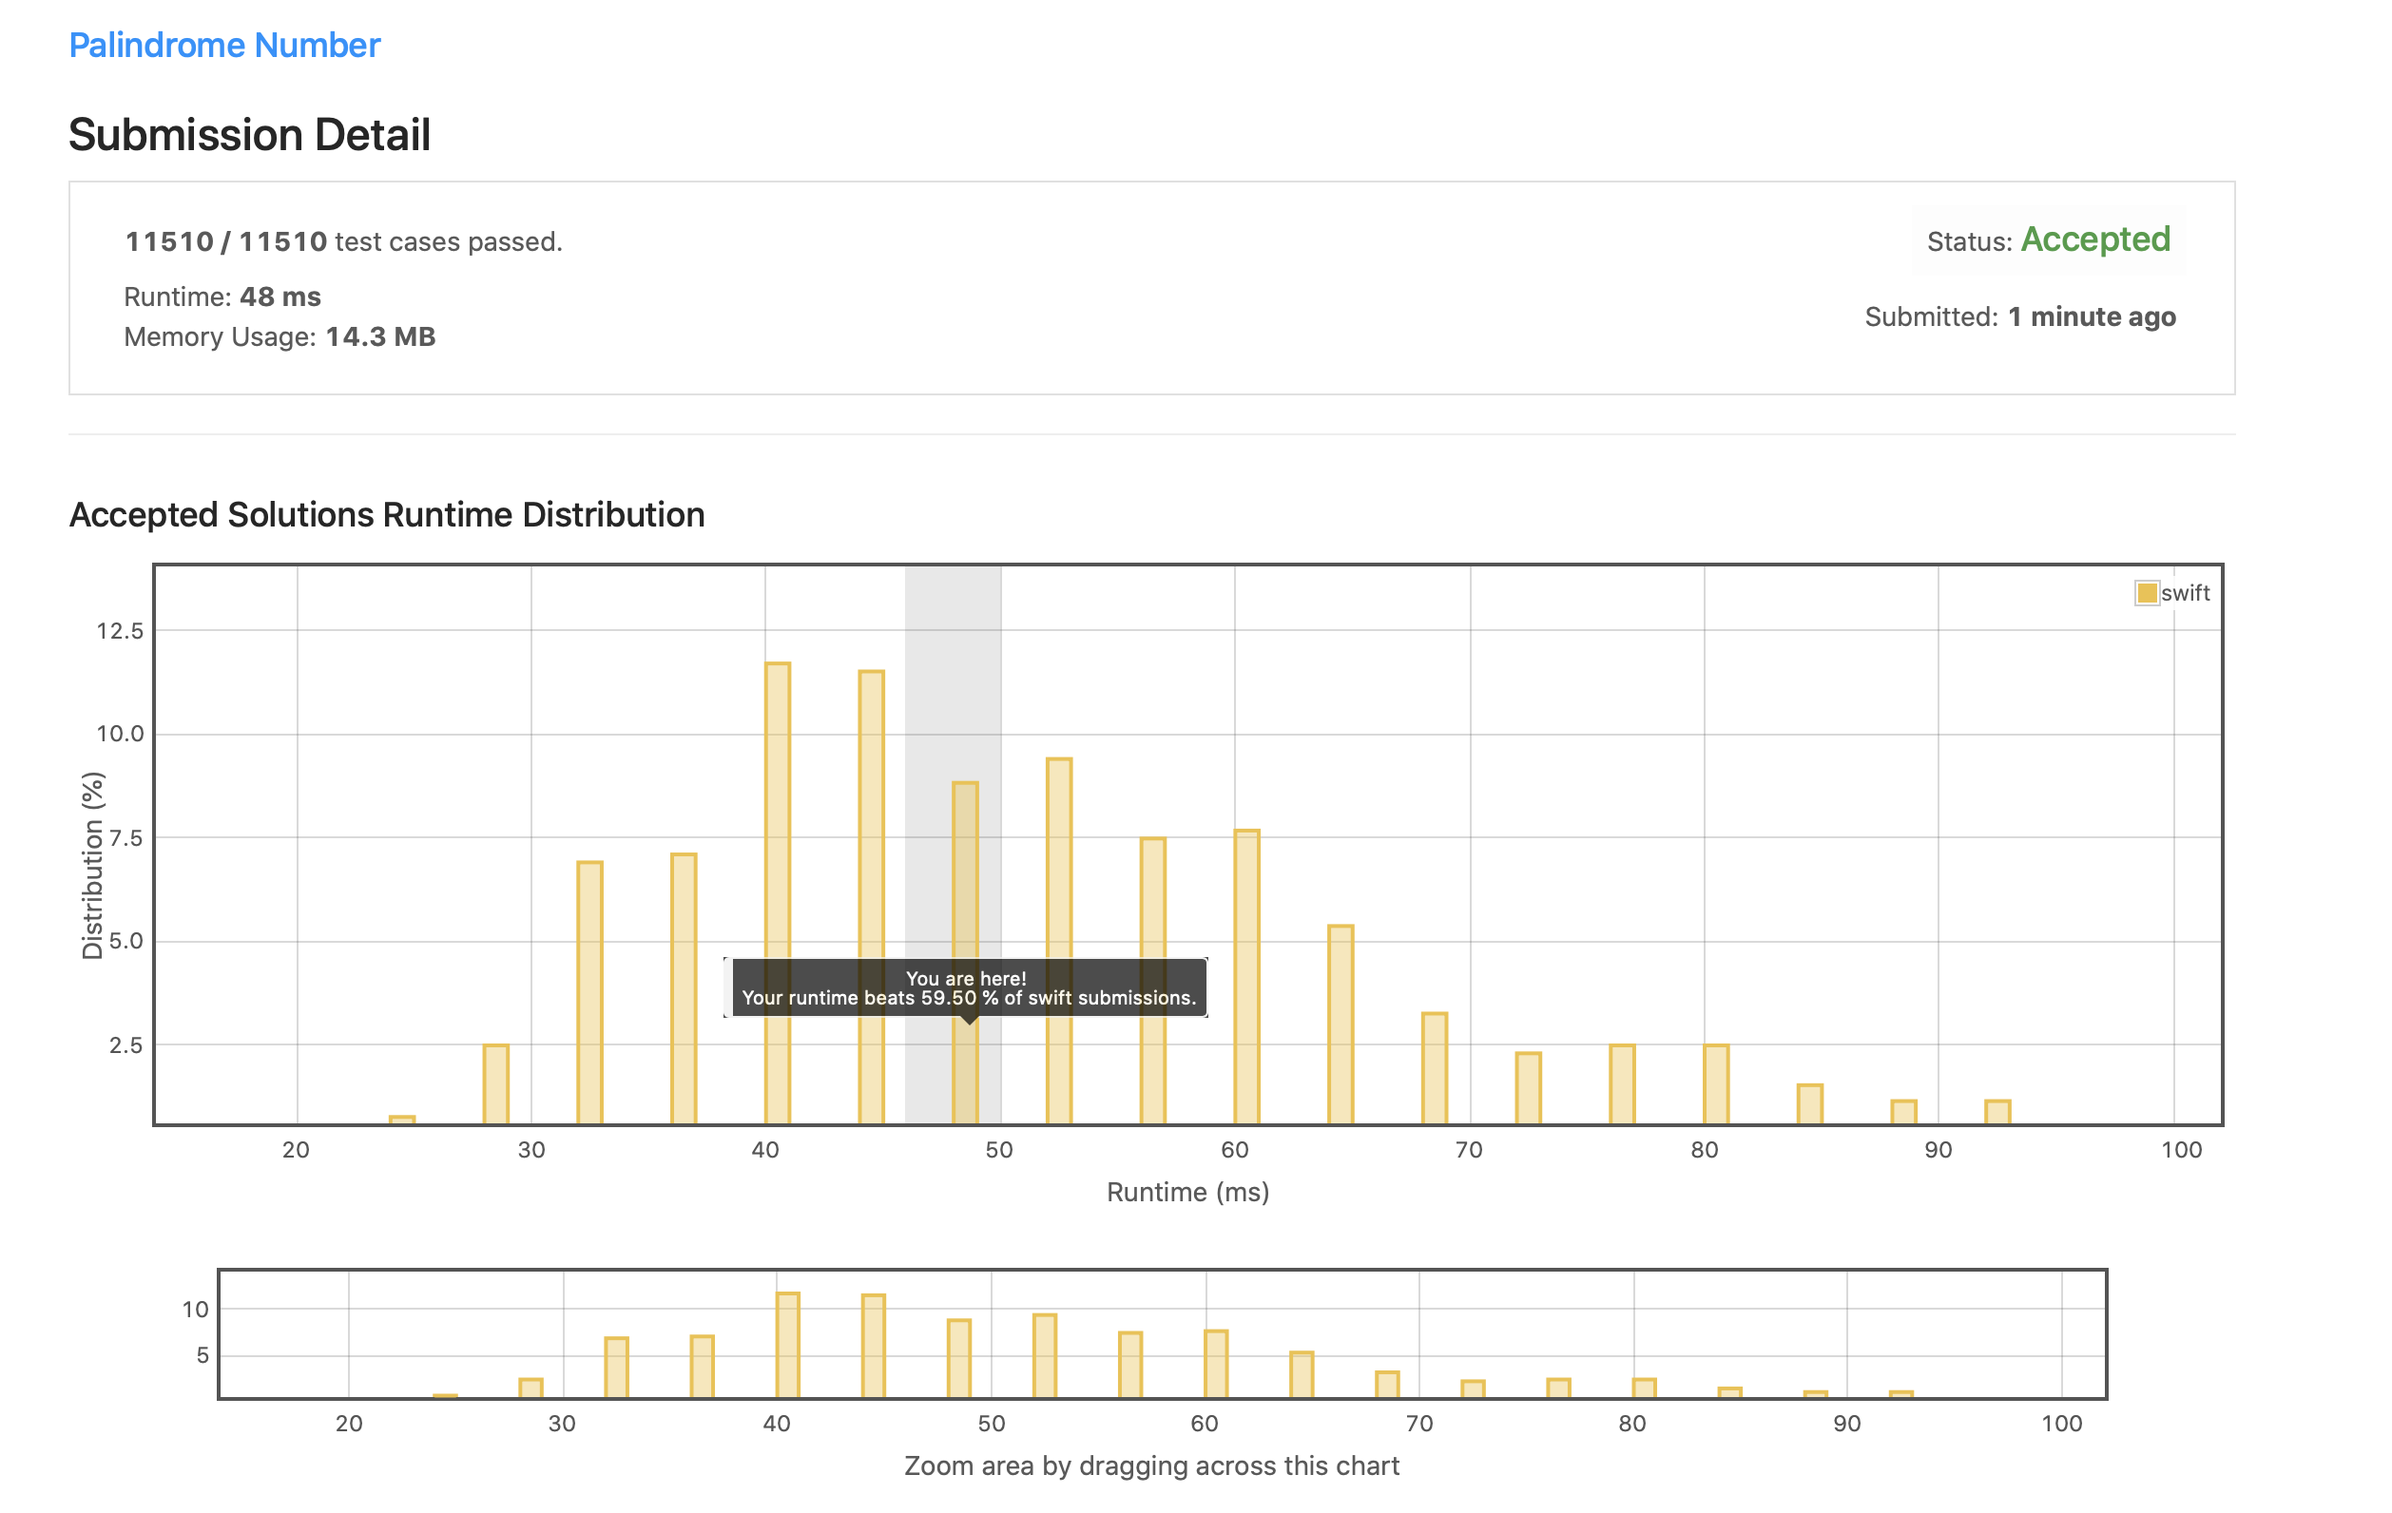
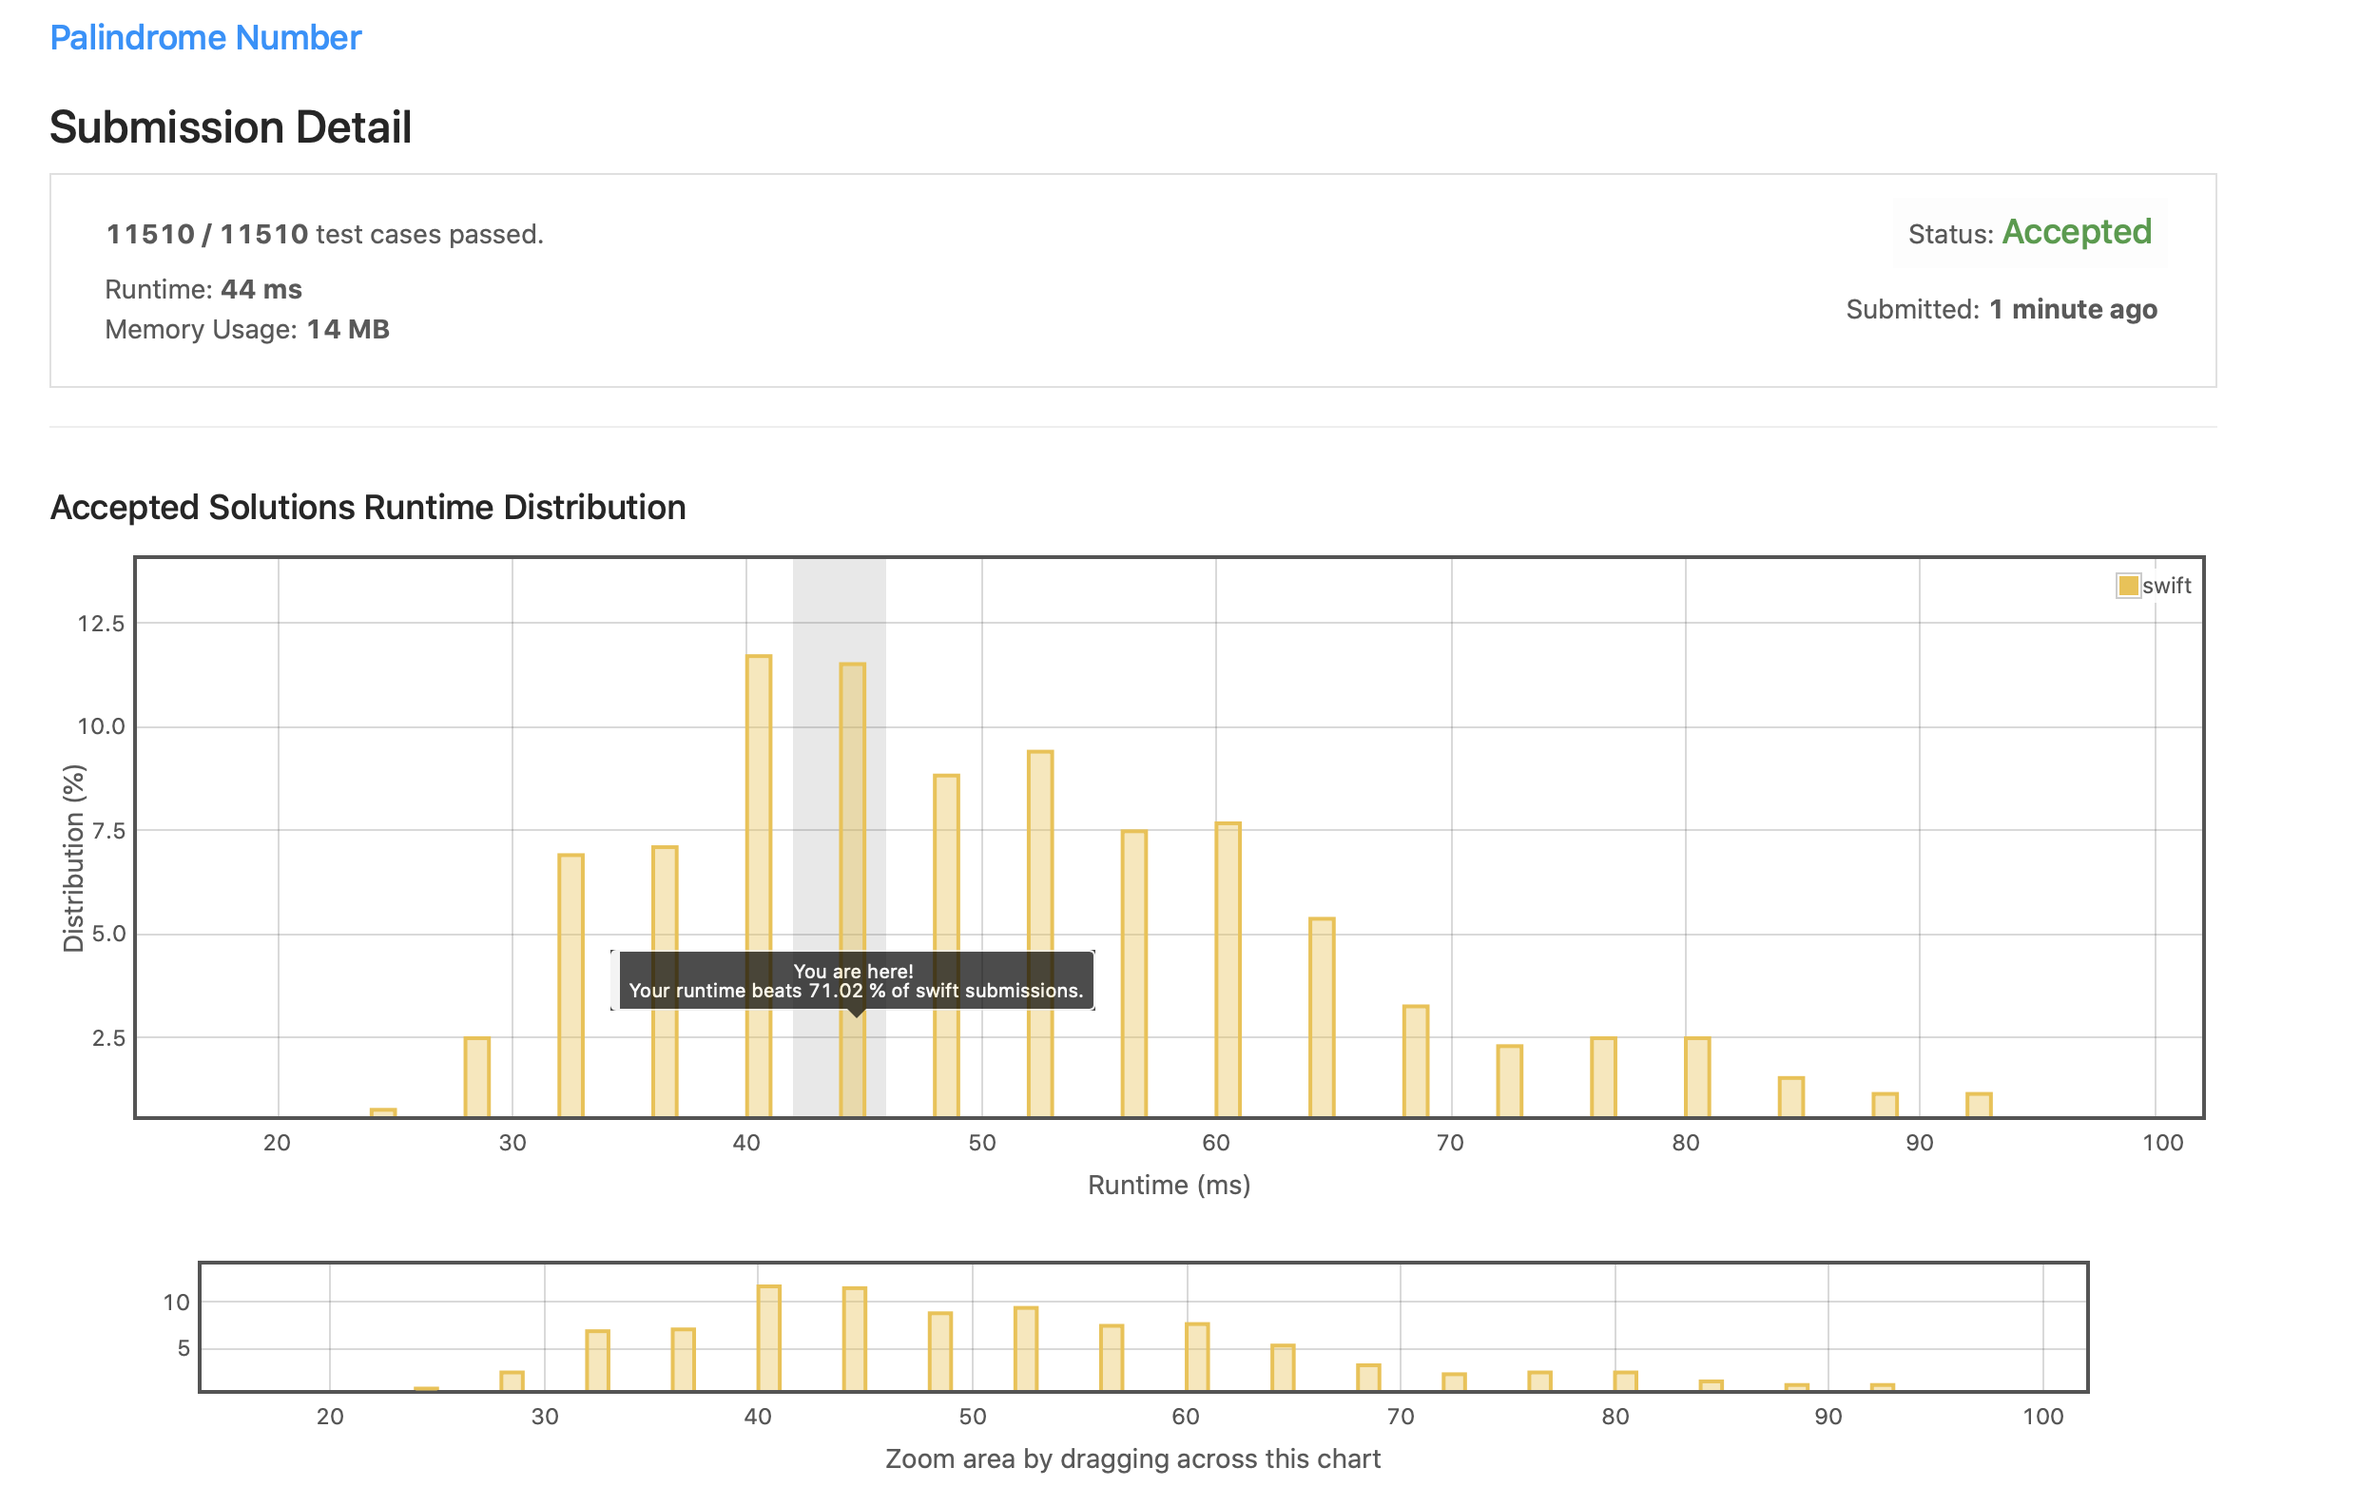
optimize String solution

diff --git a/9. Palindrome Number/PalindromeNumber.swift b/9. Palindrome Number/PalindromeNumber.swift
@@ -5,17 +5,14 @@
 //  Created by Paul Hsieh on 2020/12/16.
 //
 
-/// Runtime: 48 ms, faster than 59.50% of Swift online submissions for Palindrome Number.
-/// Memory Usage: 14.3 MB, less than 31.86% of Swift online submissions for Palindrome Number.
+/// Runtime: 44 ms, faster than 71.02% of Swift online submissions for Palindrome Number.
+/// Memory Usage: 14 MB, less than 79.46% of Swift online submissions for Palindrome Number.
 
 class Solution {
     func isPalindrome(_ x: Int) -> Bool {
         guard x >= 0 else { return false }
-        let reversed = String("\(x)".reversed())
-        if let reversedInt = Int(reversed), reversedInt - x == 0 {
-            return true
-        } else {
-            return false
-        }
+        let stringX = String(x)
+        let reversedX = String(stringX.reversed())
+        return  reversedX == stringX
     }
 }
